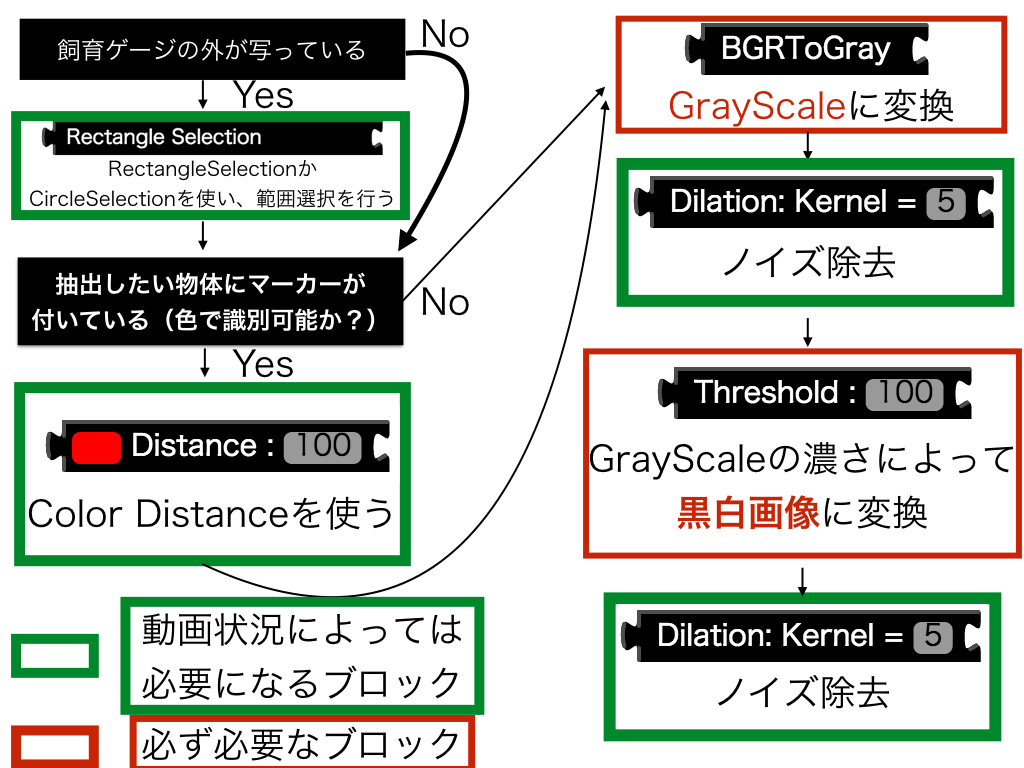
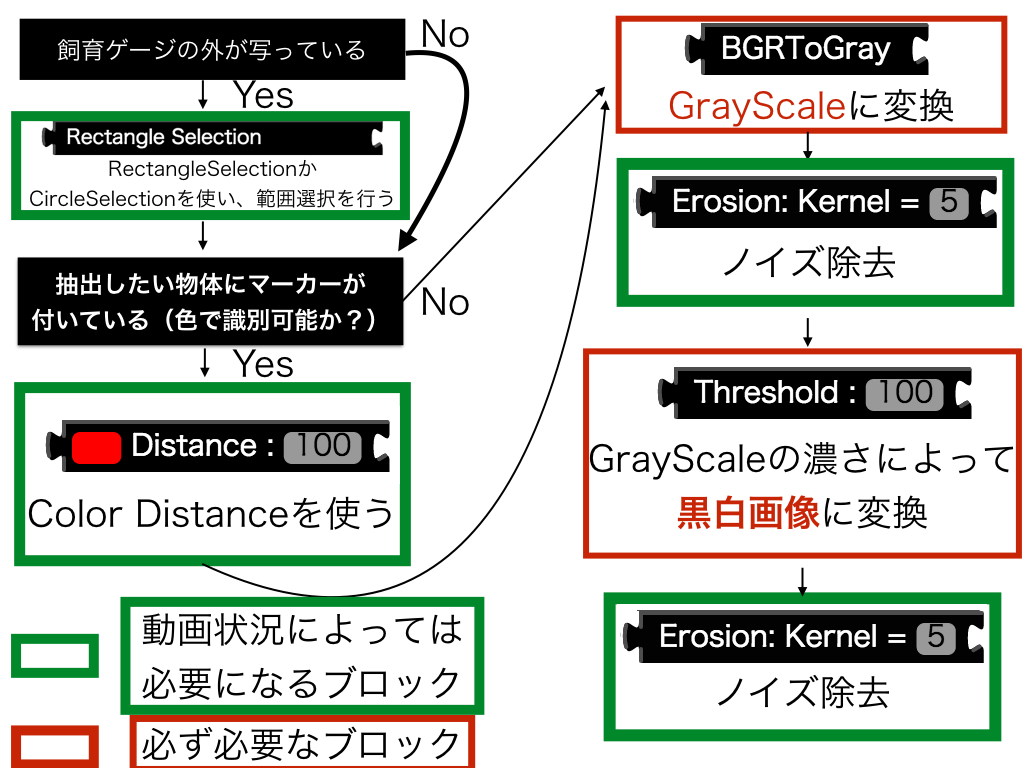
フィルタについて

Changed region(s): [[0.5938, 0.8125, 0.9688, 0.875], [0.6562, 0.25, 0.9688, 0.2812], [0.5938, 0.25, 0.625, 0.2812]]

diff --git a/Doc2/beginner-tutorial/01.html b/Doc2/beginner-tutorial/01.html
@@ -235,13 +235,48 @@
 	  <img src="../img/bt01/Process20160115175147.png" width="95%">
 	</div>
 	<div class="col-md-6">
-	  
+	  <p class="lead">
+	    まず、撮影した画像を確認して、動物が写っている範囲を確認します。動物が写っている範囲の中に容器の縁や他の物体が写っているなら必ず範囲指定のブロックを使用します。RectangleSelectionブロックかCircleSelectionブロックを使います。
+	  </p>
+	  <p class="lead">
+	    次に、追跡したい物体に色がついているかどうかを確認します。色がついているなら、ColorDistanceブロックを使います。
+	  </p>
+	  <p class="lead">
+	    色で識別できない場合も、識別出来る場合も、BGRToGrayフィルタを使いGrayScale画像に変換します。
+	  </p>
+	  <p class="lead">
+	    その後、閾値フィルタを使い色の濃さによって物体を抽出します。
+	  </p>
+	  <p class="lead">
+	    最後に、追跡したい物体以外にノイズがかかっている場合、Erosionブロックを使用します。
+	  </p>
 	</div>
       </div>
       <hr />
       <h3>フィルタ例</h3>
+      <div class="container">
+	<p class="lead">
+	  追跡物体に色が無いとは、BGRToGrayブロックでGrayScale変換した場合とカラー画像の状態が殆ど変化しない映像のこと。アリやゼブラフィッシュの動画は色が無いものといえる。
+	</p>
+	<p class="lead">
+	  追跡物体に色が有るとは、実験対象にペイントやカラーシールをはった状態の事。
+	</p>
+	<img src="../img/bt01/FilterExample0020160115181604.png" />
+	<p class="lead">
+	  追跡物体に色が有る場合、範囲指定のブロックを追加した後、<a href="../reference/index.html#ColorFilter">色フィルタ</a>を使用する。色を選択した後、BGRToGrayブロックでGrayScale画像に変換する。その後、細かなノイズを消すため、ThresholdブロックとErosionブロックを使う。
+	  <a href="FilterExample/ColorFilter.filter">このフィルタをダウンロードする</a>
+	</p>
+	<img src="../img/bt01/FilterExample0120160115181641.png" />
+	<p class="lead">
+	  追跡物体に色が無い場合、<a href="../reference/index.html#ColorFilter">色フィルタ</a>の無い状態でフィルタを構成すればよい。
+	  <a href="FilterExample/GrayScaleFilter.filter">このフィルタをダウンロードする</a>
+	</p>
+      </div>
+      <hr />
+      <!-- -
+      <h3>フィルタ例</h3>
       <h4>アリ（トビイロケアリ）</h4>
-      
+       -->
     </div>
     
 
